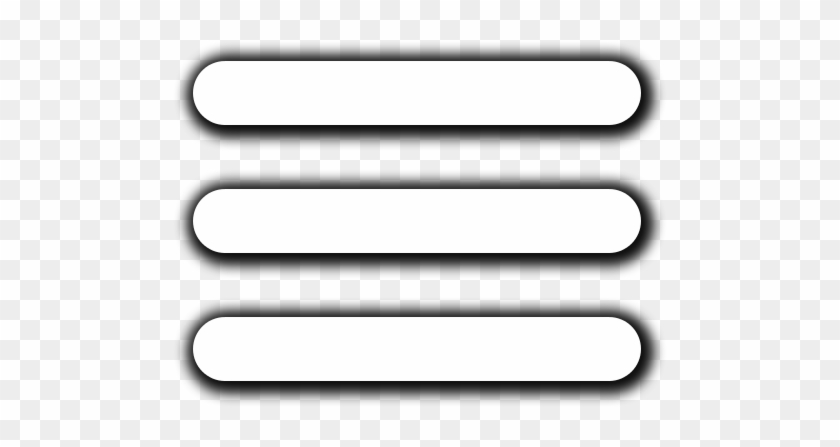
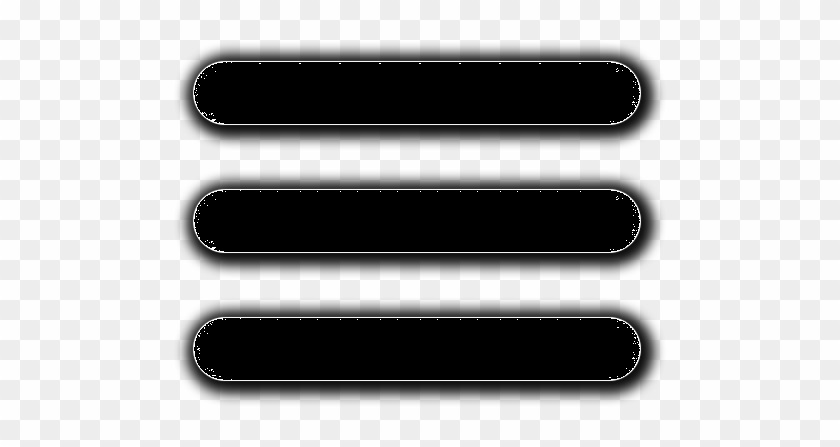
update layout

Changed region(s): [[0.2167, 0.698, 0.7738, 0.8725], [0.2167, 0.4072, 0.7738, 0.5817], [0.2167, 0.1163, 0.7738, 0.2908]]

diff --git a/fotos.html b/fotos.html
@@ -28,22 +28,22 @@
                     <ul class="navbar-nav me-auto mb-2 mb-lg-0 mheader">
                         <div class="box">
                             <li class="nav-item">
-                                <a class="nav-link mheader" href="#home">Home</a>
+                                <a class="nav-link mheader" href="/index.html#home">Home</a>
                             </li>
                         </div>
                         <div class="box">
                             <li class="nav-item">
-                                <a class="nav-link mheader" href="#eventos">Eventos</a>
+                                <a class="nav-link mheader" aria-current="page" href="/index.html#pregacoes">Pregações</a>
                             </li>
                         </div>
                         <div class="box">
                             <li class="nav-item">
-                                <a class="nav-link mheader" href="#quemsomos">Quem Somos</a>
+                                <a class="nav-link mheader" href="/index.html#eventos">Eventos</a>
                             </li>
                         </div>
                         <div class="box">
                             <li class="nav-item">
-                                <a class="nav-link mheader" aria-current="page" href="#pregacoes">Pregações</a>
+                                <a class="nav-link mheader" href="/index.html#quemsomos">Quem Somos</a>
                             </li>
                         </div>
                     </ul>
@@ -80,43 +80,17 @@
 
             </div>
     </header>
-    <div id="carouselExampleSlidesOnly" class="carousel slide mcarrousel" data-bs-ride="carousel">
-        <div class="carousel-inner" id="home">
-            <div class="carousel-item carouselimg active">
-                <img src="img/carrossel/52108599519_1d12729f2f_h.jpg" class="d-block w-100 mcarrousel" alt="...">
-            </div>
-            <div class="carousel-item carouselimg">
-                <img src="img/carrossel/52257050646_5ef1f13e09_c.jpg" class="d-block w-100 mcarrousel" alt="...">
-            </div>
-            <div class="carousel-item carouselimg">
-                <img src="img/carrossel/52272029307_cb17b33e24_c.jpg" class="d-block w-100 mcarrousel" alt="...">
-            </div>
-            <div class="carousel-item carouselimg">
-                <img src="img/carrossel/52273020068_dfbde92067_c.jpg" class="d-block w-100 mcarrousel" alt="...">
-            </div>
-            <div class="carousel-item carouselimg">
-                <img src="img/carrossel/52196693328_e5ab1c9025_c.jpg" class="d-block w-100 mcarrousel" alt="...">
-            </div>
-            <div class="carousel-item carouselimg">
-                <img src="img/carrossel/51998575804_fd0dfdd32a_o.jpg" class="d-block w-100 mcarrousel" alt="...">
-            </div>
-        </div>
-    </div>
     <main>
-        <br><br>
-        <div class="conteudo1">
+        <div class="conteudo2">
             <div class="container" id="container">
-                <div class="aside" id="eventos">
+                <div class="aside">
                     <div class="textos-body">
-                        <h1 class="conf-unms">NOSSOS EVENTOS</h1>
-                        <p class="text-color-theme-green">Fique por dentro de tudo que rolou no unânimes</p>
+                        <h2 class="text-color-theme-orange-padrao">NOV/DEZ</h2>
                     </div>
                 </div>
-                <div class="rside">
-                    <a class="" href="fotos.html"
-                        target="_blank"><img class="conf-unms-img" src="img/fotos.jpg" alt=""></a>
-                    <br><br><br>
-
+                <div class="rside ">
+                    <a class="" href="https://photos.app.goo.gl/2tAEudBhdMuJe5TD7"
+                        target="_blank"><img class="conf-unms-img imgalmbumajuste" src="img/album/novdez.jpg" alt=""></a>
                 </div>
             </div>
         </div>
@@ -124,55 +98,40 @@
             <div class="container" id="container">
                 <div class="aside">
                     <div class="textos-body">
-                        <h2 class="text-color-theme-orange-padrao">PARTICIPE CONOSCO</h2>
-                        <p class="text-color-theme-orange">Nossos cultos acontecem aos sábados</p>
+                        <h2 class="text-color-theme-orange-padrao">CONF 22</h2>
                     </div>
                 </div>
-                <div class="rside">
-                    <video class="video" controls poster="img/horario culto.png">
-                        <source src="img/horario culto.mp4" type="video/mp4">
-                        <source src="img/horario-culto.webm" type="video/webm">
-                        <object>
-                            <embed src="demo.mp4" type="application/x-shockwave-flash" allowfullscreen="false"
-                                allowscriptaccess="always">
-                        </object>
-                        Formato não suportado
-                    </video><br><br><br>
+                <div class="rside imgalmbumajuste">
+                    <a class="" href="https://photos.app.goo.gl/3zqXVcNz8GCcTDsGA"
+                        target="_blank"><img class="conf-unms-img" src="img/album/conf22.jpg" alt=""></a>
                 </div>
             </div>
         </div>
-        <div class="conteudo1">
-            <div class="container" id="container">
-                <div class="aside" id="quemsomos">
-                    <div class="textos-body">
-                        <h1 class="text-title-pad-light">QUEM SOMOS</h1>
-                        <p class="text-pad-ligth">conheça o unânimes</p>
-                    </div>
-                </div>
-                <div class="rside">
-                    <iframe width="300" height="220" src="https://www.youtube.com/embed/CKLkenHwu2c"
-                        title="O QUE É UNÂNIMES?" frameborder="0"
-                        allow="accelerometer; autoplay; clipboard-write; encrypted-media; gyroscope; picture-in-picture"
-                        allowfullscreen></iframe>
-                    <br><br><br>
-
-                </div>
-            </div>
-        </div>
-
         <div class="conteudo2">
             <div class="container" id="container">
-                <div class="aside" id="pregacoes">
+                <div class="aside">
                     <div class="textos-body">
-                        <h2 class="text-color-theme-orange-padrao">OUÇA NOVAMENTE</h2>
-                        <p class="text-color-theme-orange">Nossas pregações estão disponíveis em nosso canal no spotify.
-                            Confira</p>
+                        <h2 class="text-color-theme-orange-padrao">OUTUBRO</h2>
                     </div>
                 </div>
-                <div class="rside">
-                    <a href="https://open.spotify.com/show/6NabNjIg7FJBfQCm9A3tQj?si=g346oUQER0-FbOLRdzF40w"
-                        target="_blank"><img src="img/unanimes_spotfy.jfif" class="unms-spotify" alt=""></a>
+                <div class="rside imgalmbumajuste">
+                    <a class="" href="https://photos.app.goo.gl/T3ppxHvKxDiZjnHv7"
+                        target="_blank"><img class="conf-unms-img" src="img/album/outubro.jpg" alt=""></a>
+                </div>
+            </div>
+        </div>
+        <div class="conteudo2">
+            <div class="container" id="container">
+                <div class="aside">
+                    <div class="textos-body">
+                        <h2 class="text-color-theme-orange-padrao">SETEMBRO</h2>
+                    </div>
+                </div>
+                <div class="rside imgalmbumajuste">
+                    <a class="" href="https://photos.app.goo.gl/b1C2T8irZt1Yk1M46"
+                        target="_blank"><img class="conf-unms-img" src="img/album/set.jpg" alt=""></a>
                     <br><br><br>
+
                 </div>
             </div>
         </div>

diff --git a/css/main.css b/css/main.css
@@ -1,15 +1,19 @@
 .mheader {
-    color: white !important;
+    color: black !important;
 }
 
 
 .mheader:hover {
-    color: rgba(255, 134, 4, 0.947) !important;
+    color: rgba(166,68,153) !important;
+}
+
+.header{
+    background-color: rgba(254, 218, 0, 0.947) !important;
 }
 
 main {
     text-align: center;
-    color: rgba(255, 134, 4, 0.947);
+    color: rgba(254, 218, 0, 0.947);
 }
 
 footer {
@@ -32,22 +36,26 @@ footer {
     -webkit-box-shadow: 0px 0px 25px -6px #81b71a;
     box-shadow: 0px 0px 25px -6px #81b71a;
 }
+
 .text-color-theme-orange {
-    color: rgba(255, 134, 4, 0.947);
+    color: rgba(254, 218, 0, 0.947);
     font-weight: bold;
 }
 
 .text-color-theme-orange-padrao {
     font-family: 'bison-bold', sans-serif;
-    color: rgba(255, 134, 4, 0.947);
+    color: rgba(254, 218, 0, 0.947);
     font-weight: bold;
     text-shadow: -2px 2px 0px #3d3d3d;
 }
 
 .logo {
-    font-family: 'bison-bold', sans-serif;
-    color: rgba(255, 134, 4, 0.947);
+    font-family: 'Jefith Personal Use', sans-serif;
+    font-family: 'Jefith', sans-serif;
+    font-size: 330%;
+    color: rgba(0, 0, 0, 0.947);
     margin-right: 30px;
+    margin-left: 20px;
 }
 
 .text-pad-ligth {
@@ -58,18 +66,18 @@ footer {
 .text-title-pad-light {
     font-family: 'bison-bold', sans-serif;
     color: rgb(0, 0, 0);
-    text-shadow: -2px 2px 0px rgba(255, 134, 4, 0.947);
+    text-shadow: -2px 2px 0px rgba(254, 218, 0, 0.947);
     font-weight: bold;
 }
 
 .text-color-theme-green {
-    color: rgba(151, 219, 0);
+    color: rgba(166,68,153);
     font-weight: bold;
 }
 
 .conf-unms {
     font-family: 'bison-bold', sans-serif;
-    color: rgba(151, 219, 0);
+    color: rgba(166,68,153);
     text-shadow: -2px 2px 0px #000000;
     font-weight: bold;
 }
@@ -100,7 +108,7 @@ footer {
     size: 90%;
 }
 
-.carouselimg{
+.carouselimg {
     width: 100%;
     max-height: 85%;
     height: auto;

diff --git a/css/bootstrap.min.css b/css/bootstrap.min.css
@@ -4306,7 +4306,7 @@ fieldset:disabled .btn {
     --bs-navbar-toggler-padding-y: 0.25rem;
     --bs-navbar-toggler-padding-x: 0.75rem;
     --bs-navbar-toggler-font-size: 1.25rem;
-    --bs-navbar-toggler-icon-bg: url(https://cdn.awsli.com.br/1728/1728613/arquivos/outros@3x.png);
+    --bs-navbar-toggler-icon-bg: url(https://uploaddeimagens.com.br/images/004/288/973/thumb/pngwing.com.png?1673227406);
     --bs-navbar-toggler-border-color: rgba(0, 0, 0, 0.1);
     --bs-navbar-toggler-border-radius: 0.375rem;
     --bs-navbar-toggler-focus-width: 0.25rem;
